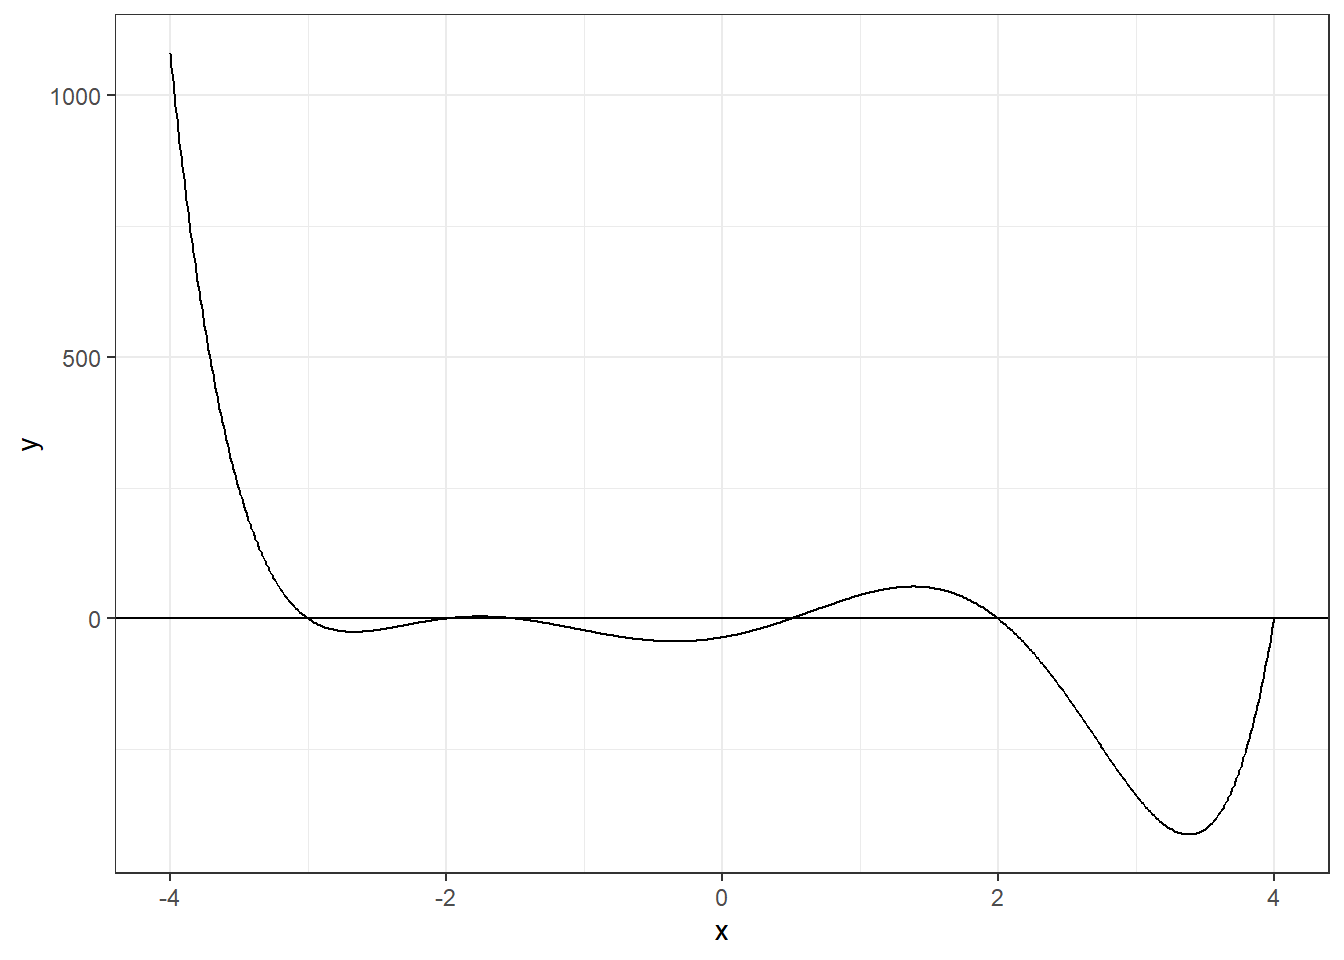
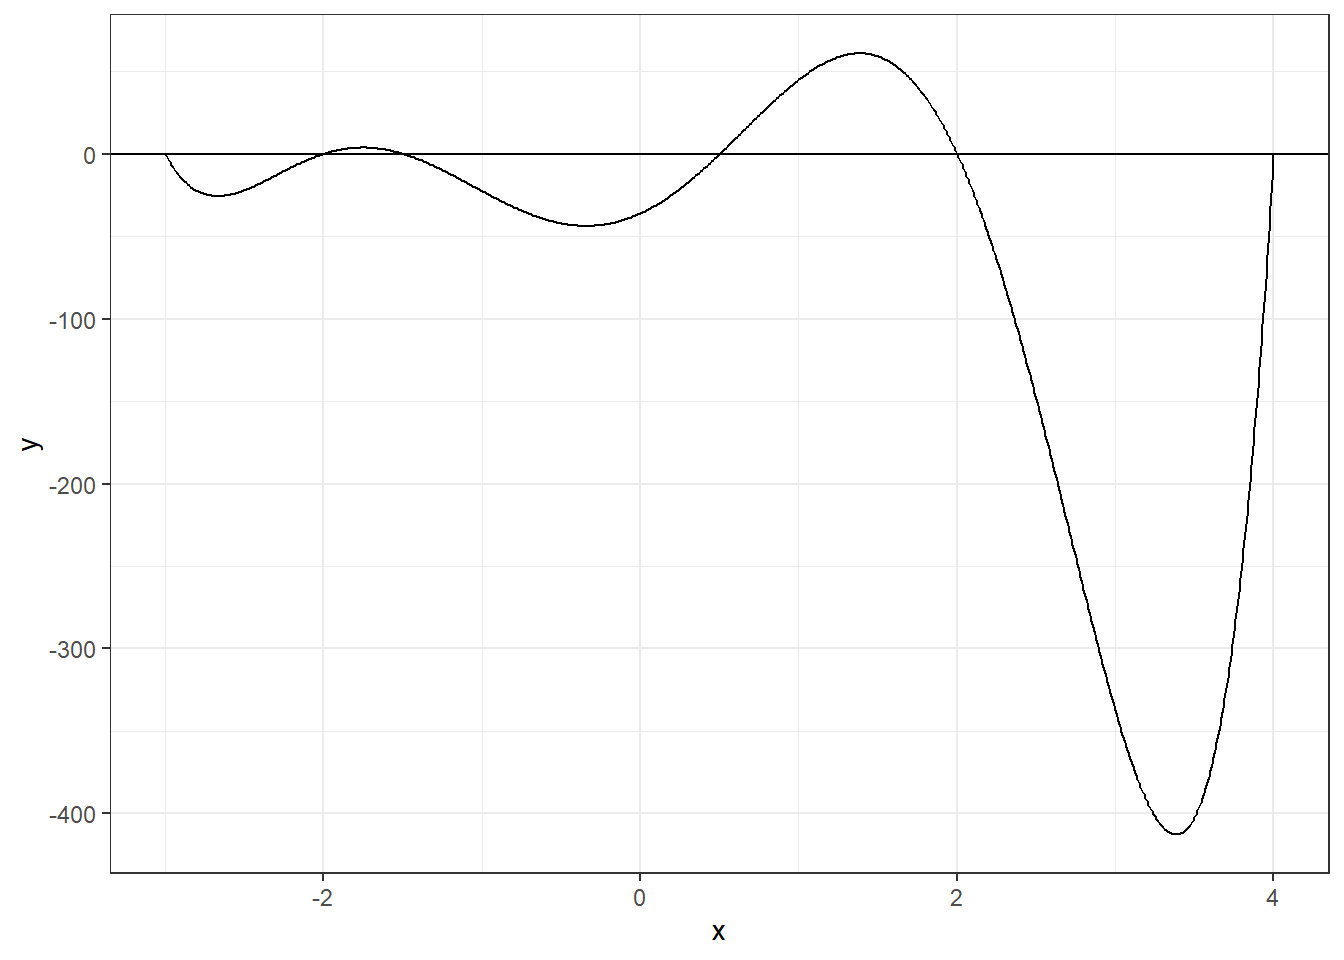
Built site for gh-pages

diff --git a/t2_MatesBasicas.html b/t2_MatesBasicas.html
@@ -434,7 +434,7 @@ Nota
 </div>
 </div>
 <div class="cell">
-<div class="sourceCode cell-code" id="cb7"><pre class="sourceCode r code-with-copy"><code class="sourceCode r"><span id="cb7-1"><a href="#cb7-1" aria-hidden="true" tabindex="-1"></a>x <span class="ot">=</span> <span class="fu">seq</span>(<span class="sc">-</span><span class="dv">4</span>,<span class="dv">4</span>, <span class="fl">0.01</span>)</span>
+<div class="sourceCode cell-code" id="cb7"><pre class="sourceCode r code-with-copy"><code class="sourceCode r"><span id="cb7-1"><a href="#cb7-1" aria-hidden="true" tabindex="-1"></a>x <span class="ot">=</span> <span class="fu">seq</span>(<span class="sc">-</span><span class="dv">3</span>,<span class="dv">4</span>, <span class="fl">0.01</span>)</span>
 <span id="cb7-2"><a href="#cb7-2" aria-hidden="true" tabindex="-1"></a>y <span class="ot">=</span> (x<span class="dv">-2</span>)<span class="sc">*</span>(x<span class="fl">+1.5</span>)<span class="sc">*</span>(x<span class="fl">-0.5</span>)<span class="sc">*</span>(x<span class="sc">+</span><span class="dv">3</span>)<span class="sc">*</span>(x<span class="sc">+</span><span class="dv">2</span>)<span class="sc">*</span>(x<span class="dv">-4</span>)</span>
 <span id="cb7-3"><a href="#cb7-3" aria-hidden="true" tabindex="-1"></a>datos <span class="ot">=</span> <span class="fu">data.frame</span>(x, y)</span>
 <span id="cb7-4"><a href="#cb7-4" aria-hidden="true" tabindex="-1"></a>datos <span class="sc">%&gt;%</span> <span class="fu">ggplot</span>(<span class="fu">aes</span>(<span class="at">x=</span>x, <span class="at">y=</span>y))<span class="sc">+</span></span>
